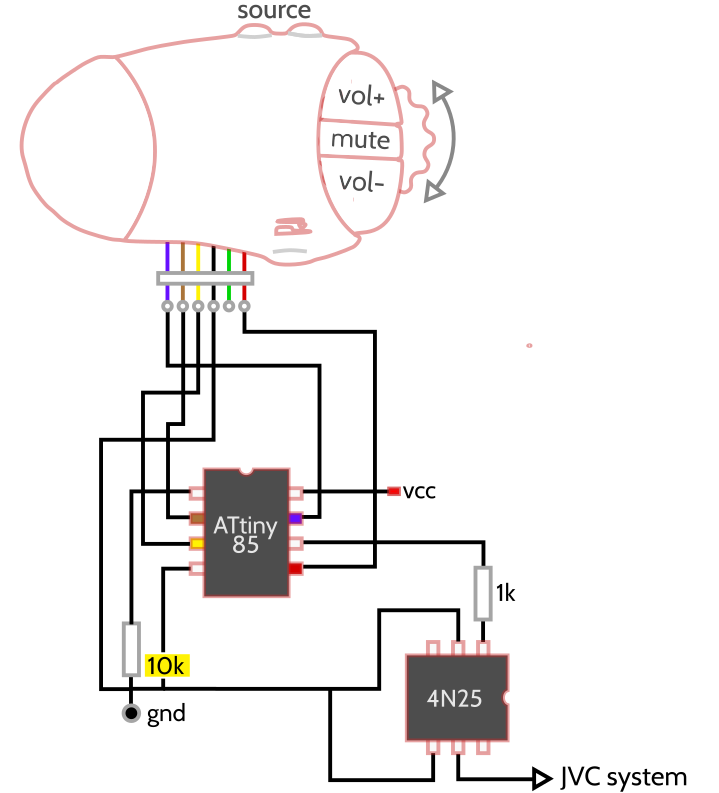
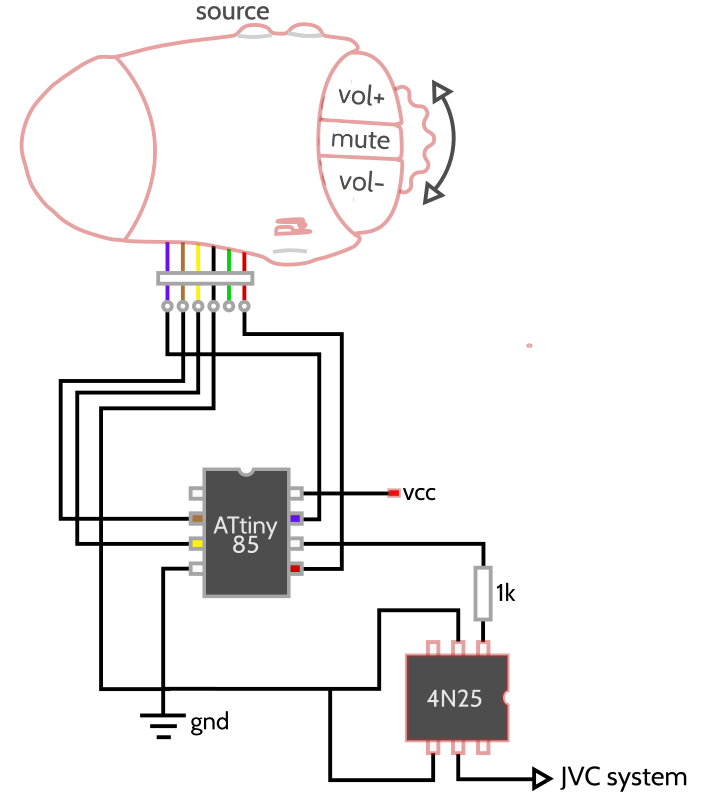
disabled SRC function, TODO: enable SRC function

Changed region(s): [[0.0612, 0.3934, 0.6732, 0.9382], [0.5814, 0.0908, 0.6426, 0.2724], [0.2754, 0.0, 0.4284, 0.0303]]

diff --git a/main.c b/main.c
@@ -24,8 +24,9 @@ uint8_t checkEqualValues(unsigned char *arr,int size);
 void updateWheel(uint8_t val);
 uint8_t  read_btn(uint8_t);
 uint8_t debounce(uint8_t  *button_history,uint8_t);
-void setupPCM () ;
-void stopPCM () ;
+void setupPWM () ;
+void stopPWM () ;
+void check_inputs_fn(void);
 
 uint8_t mute_history=0;
 uint8_t volp_history=0;
@@ -38,6 +39,7 @@ const uint8_t PRSB=0x01;
 const uint8_t PRSV=0x02;
 volatile uint8_t  turnDirection=0;//is given a control code when detecting a wheel movement in either direction (JVC_R or JVC_F )
 volatile uint8_t emit=0;
+volatile uint8_t check_inputs = 0;
 
 //Command constants
 
@@ -45,7 +47,7 @@ const uint8_t JVC_ADDRESS = 0xF1;
 const uint8_t JVC_VOLP = 0x21;
 const uint8_t JVC_VOLM = 0xA1;
 const uint8_t JVC_MUTE = 0x71;
-const uint8_t JVC_SRC1 = 0x11;//Source cycle
+const uint8_t JVC_SRC1 = 0x11;
 const uint8_t JVC_F = 0xC9;
 const uint8_t JVC_R = 0x49;
 
@@ -56,44 +58,31 @@ void setup() {
 	DDRB &=~ _BV(REMOTE_BROWN);
 	REMOTEPORT|= _BV(REMOTE_BROWN);//pull up sur PB3 (marron, contact commun molette)
 	sei();
+	//AVR Manual: WDT Timeout is 4 or 64 ms
 	//watchdog configuration
 	WDTCR |= (1<<WDIE);//generate interrupt after each time out
 	//TCNT0=0;
 }
 
-void setupPCM () {
-	//fast pwm, non inverting, TOP=OCR0A, prescaler 8
+void setupPWM () {
+	//fast pwm, non inverting, prescaler 8
 	TCCR0A = (1<<WGM01)| (1<<WGM00)|(1<<COM0B1);
 	TCCR0B = (1<<WGM02)|( 1<<CS01);
 }
 
-void stopPCM () {
+void stopPWM () {
 	TCCR0A =0;
 }
 
-
 void preamble(){
-	//fast pwm, non inverting, TOP=OCR0A, prescaler 64
-	/*
-	TCCR0A = (1<<WGM01)| (1<<WGM00)|(1<<COM0B1);
-	TCCR0B = (1<<WGM02)|( 1<<CS01)|(1<<CS00);
-	TCNT0=0;
-	OCR0A=255;
-	OCR0B=80;
-	do ; while ((TIFR & 1<<OCF0B) == 0);
-	TIFR = 1<<OCF0B;
-	TCCR0A=0;
-	*/
 	PORTB |=_BV(PB1);
 	_delay_us(8600);
 	PORTB &=~_BV(PB1);
 	_delay_us(3100);
-
 }
 
 void sendCode (uint16_t code) {
 	TCNT0=0;
-	//busywork
 
 	OCR0A=0;
 	OCR0B=0;
@@ -105,8 +94,10 @@ void sendCode (uint16_t code) {
 	do ; while ((TIFR & 1<<OCF0B) == 0);
 	TIFR = 1<<OCF0B;
 
-	for (uint16_t Bit=0x8000;Bit;Bit=Bit>>1){
-		if (code & Bit) {
+	//for (int Bit=17; Bit>-1; Bit--) {//weird loop indexes
+		for (uint16_t Bit=0x8000;Bit;Bit=Bit>>1){
+		//if (code & (1<<Bit)) {
+			if (code & Bit) {
 			OCR0A=255;
 			OCR0B=80;
 		}
@@ -130,12 +121,12 @@ void sendCode (uint16_t code) {
 }
 
 void transmit(uint8_t address,uint8_t code){
-	cli();//disabling interrupts
+	cli();
 	preamble();
-	setupPCM();
-	sendCode((JVC_ADDRESS<<8)+code);
-	stopPCM();
-	sei();//re-enabling interrupts
+	setupPWM();
+	sendCode((address<<8)+code);
+	stopPWM();
+	sei();
 }
 
 /**
@@ -218,9 +209,8 @@ uint8_t read_btn(uint8_t  curbtn){
 		REMOTEDDR |=_BV(REMOTE_RED);
 		REMOTEPORT &=~_BV(REMOTE_RED);
 		nop();nop();nop();nop(); //nops make sure the ports have time to settle to their new state before testing
-		ret= ((REMOTEPIN & (1<<REMOTE_YELLOW)) == 0);//lecture de PB4 WHAT IT THIS TODO
-		//ret= ((REMOTEPIN & _BV(REMOTE_RED)) == 0);//lecture de PB4 WHAT IT THIS TODO
-	} else if (curbtn==0x05){
+		ret= ((REMOTEPIN & (1<<REMOTE_YELLOW)) == 0);
+	} else if (curbtn==0x03){
 		//poll Source 1
 		REMOTEDDR |=_BV(REMOTE_RED);
 		REMOTEPORT |=_BV(REMOTE_RED);//rouge a 1
@@ -277,27 +267,41 @@ int main() {
 	//CLKPR = 0x80;
 	//CLKPR = 1 ;  // presc 2
 	setup();
-	//first transmission after startup is mangled so
-	//we send a bogus command and get it over with
-	transmit(JVC_ADDRESS,JVC_ADDRESS);
+	//the first command comes out mangled so we send a bogus message
+	//to get it over with
+	transmit(0x00,0x00);
 	uint8_t dir =0;
 	while(1){
-		if (emit>0){
-			dir=emit;
-			emit=0;
-			transmit(JVC_ADDRESS,dir);
-		}
+		cli();
+		if(check_inputs){
+			sei();
+			check_inputs_fn();
+			if (emit>0){
+				dir=emit;
+				emit=0;
+				transmit(JVC_ADDRESS,dir);
+				transmit(JVC_ADDRESS,dir);
+			}
 
-		if (turnDirection>0){
-			dir=turnDirection;
-			turnDirection=0;
-			transmit(JVC_ADDRESS,dir);
+			if (turnDirection>0){
+				dir=turnDirection;
+				turnDirection=0;
+				transmit(JVC_ADDRESS,dir);
+				transmit(JVC_ADDRESS,dir);
+			}
+			cli();	//Not sure if this is truly necessary.  We might be able to just
+				//Treat check_inputs as a boolean (and change the ISR respectively)
+			check_inputs = check_inputs == 0 ? 0 : check_inputs-1;
+			sei();
 		}
-
+		else{
+			sei();
+		}
 	}
 }
 
-ISR (WDT_vect){
+void check_inputs_fn(void)
+{
 	if (debounce(&volp_history,0x02)==1){
 		emit=JVC_VOLP;
 	}
@@ -309,18 +313,13 @@ ISR (WDT_vect){
 	if (debounce(&volm_history,0x04)==1){
 		emit=JVC_VOLM;
 	}
-
-	if (debounce(&src1_history,0x05)==1){
+/*
+	if (debounce(&src1_history,0x03)==1){
 		emit=JVC_SRC1;
 	}
+*/
 }
 
-/*Why not use fast PWM mode instead, since it has well defined levels, instead o toggle and messing around with force output compare?
- *Moreover, in PWM modes the OCR0A and B registers are buffered, so you can load the values for the next pulse at any time.
-
-That is, set fast PWM with OCR0A as TOP in non-inverted mode,
-and changing the pin on match with OCR0B.
-Load OCR0A with low+high, and OCR0B with high.
-Update OCR0A and B with the next bit values on compare match with OCR0B.
-These will be buffered and auto-loaded on terminal count.
- */
+ISR (WDT_vect){
+	check_inputs++;
+}

diff --git a/README.md b/README.md
@@ -1,10 +1,10 @@
 Circuit and code to convert button presses on a generic wired Renault remote to commands for an aftermarket JVC car stereo, using an ATtiny85.
 
 Supports:
-VOLUME UP
-VOLUME DOWN
+VOLUME_UP
+VOLUME_DOWN
 MUTE
-SOURCE CYCLE
+SOURCE_CYCLE
 FORWARD
 BACKWARD
 
